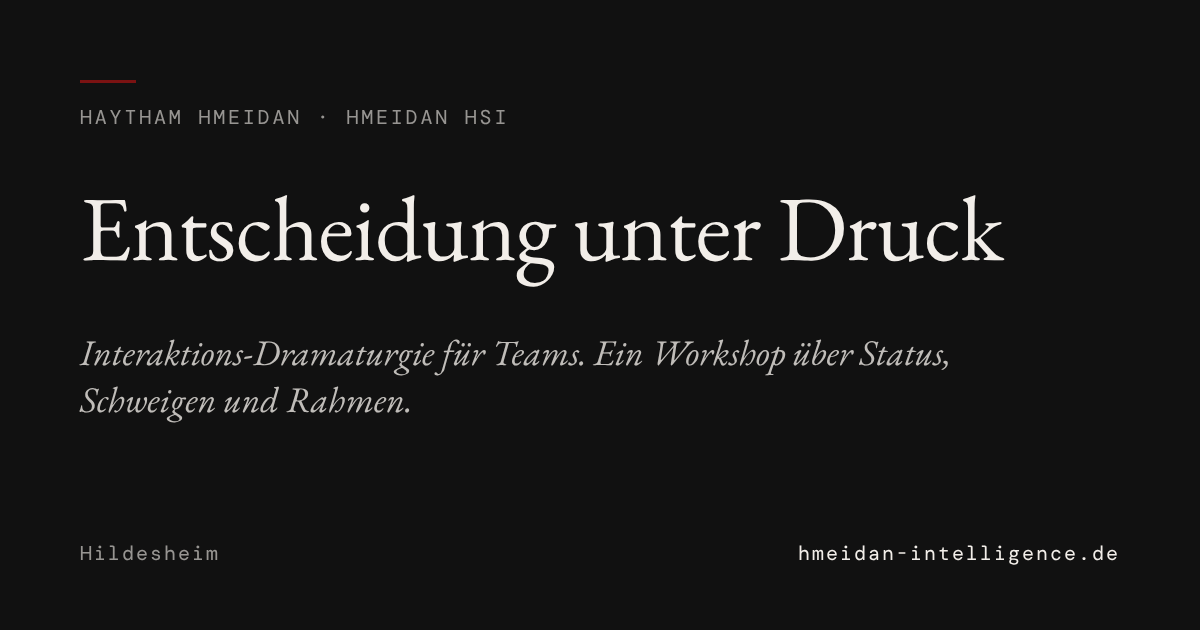
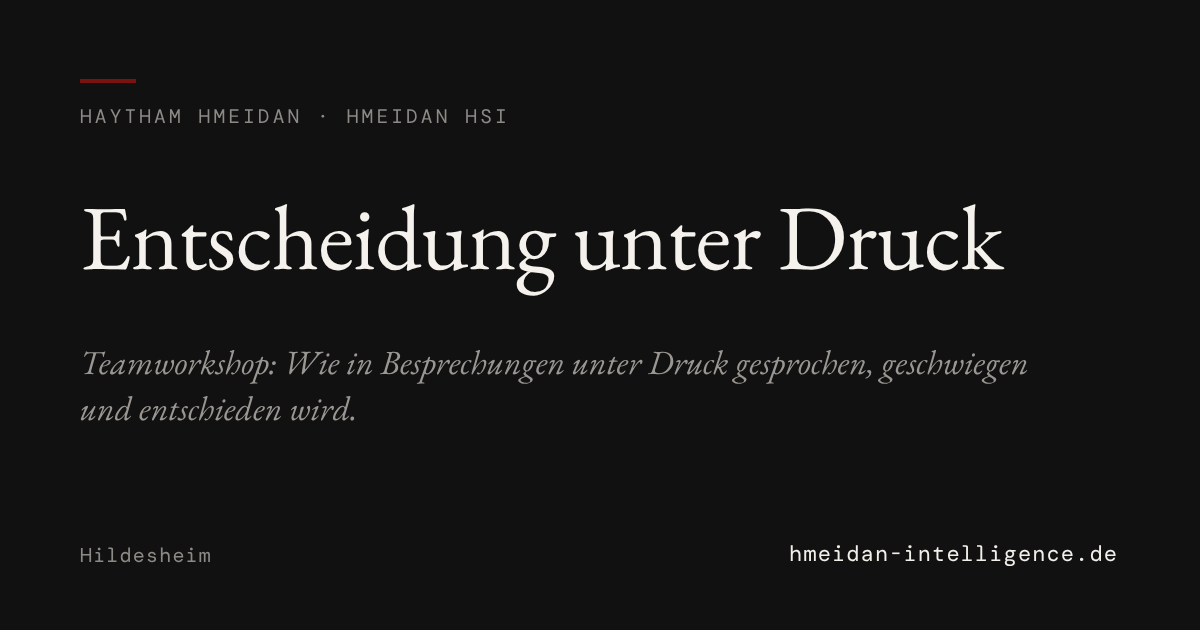
Website: Vorschaubild, 30 Minuten, e. V. beim Vereinsnamen
- og-image.png neu (Teamworkshop-Zeile statt Interaktions-Dramaturgie), og:image mit ?v=2 gegen Cache
- og:image:alt angepasst
- Erstkontakt: "30 Minuten" statt "20–30 Minuten"
- Citizen Diplomats for Syria e. V.

Claude-Session: https://claude.ai/code/session_01LMaWUzrgQ3KcMeE2QfdhcS

diff --git a/index.html b/index.html
@@ -11,10 +11,10 @@
   <meta property="og:title" content="Hmeidan Strategic Intelligence — Trainer für Teams unter Druck">
   <meta property="og:description" content="Teamworkshop „Entscheidung unter Druck“ mit Haytham Hmeidan, ehemaliger Diplomat und Theaterpädagoge, Hildesheim.">
   <meta property="og:url" content="https://hmeidan-intelligence.de/">
-  <meta property="og:image" content="https://hmeidan-intelligence.de/og-image.png">
+  <meta property="og:image" content="https://hmeidan-intelligence.de/og-image.png?v=2">
   <meta property="og:image:width" content="1200">
   <meta property="og:image:height" content="630">
-  <meta property="og:image:alt" content="Entscheidung unter Druck: Interaktions-Dramaturgie für Teams. Haytham Hmeidan, Hmeidan HSI, Hildesheim">
+  <meta property="og:image:alt" content="Entscheidung unter Druck: Teamworkshop mit Haytham Hmeidan, Hmeidan HSI, Hildesheim">
   <meta name="twitter:card" content="summary_large_image">
   <script type="application/ld+json">
   {"@context":"https://schema.org","@type":"Person","name":"Haytham Hmeidan","url":"https://hmeidan-intelligence.de/","jobTitle":"Theaterpädagoge, Trainer","worksFor":{"@type":"Organization","name":"Hmeidan Strategic Intelligence","url":"https://hmeidan-intelligence.de/"},"address":{"@type":"PostalAddress","addressLocality":"Hildesheim","addressCountry":"DE"},"knowsLanguage":["de","en","ar"],"sameAs":["https://www.linkedin.com/in/haytham-hmeidan-a0899125/","https://diplomatspowerhub.substack.com"]}
@@ -528,7 +528,7 @@
       </div>
       <div class="bio-text">
         <p class="mono reveal" style="color:var(--sovereign); margin-bottom:16px;">Ehemaliger Diplomat (M.A. Diplomatie, Malta) · Theaterpädagoge · Hildesheim</p>
-        <p class="reveal"><strong>Damals.</strong> Zwölf Jahre war ich Diplomat, in Damaskus, Tokio und Havanna. Im März 2013 weigerte ich mich öffentlich, das Regime weiter zu vertreten, und verließ aus politisch-moralischer Verantwortung meinen Posten in Havanna. Ich sagte mich vom Außenministerium los, half anderen Diplomaten beim Seitenwechsel und gründete Citizen Diplomats for Syria, das Entscheidungsträger beriet und Geflüchtete unterstützte (bis 2024).</p>
+        <p class="reveal"><strong>Damals.</strong> Zwölf Jahre war ich Diplomat, in Damaskus, Tokio und Havanna. Im März 2013 weigerte ich mich öffentlich, das Regime weiter zu vertreten, und verließ aus politisch-moralischer Verantwortung meinen Posten in Havanna. Ich sagte mich vom Außenministerium los, half anderen Diplomaten beim Seitenwechsel und gründete Citizen Diplomats for Syria e.&nbsp;V., das Entscheidungsträger beriet und Geflüchtete unterstützte (bis 2024).</p>
         <div class="bio-refusal reveal"><p style="font-family:var(--display); font-style:italic; font-size:1.18rem; line-height:1.55; color:var(--ink); margin:0; max-width:none;">„Das Laufband war kein Ende. Es war der Beginn der einzigen Architektur, die trägt — weil sie von innen gebaut ist.“</p></div>
         <p class="reveal"><strong>Der Weg.</strong> In Deutschland ließ ich mich an der HMTM Hannover und der Hessischen Theaterakademie zum Schauspieler und Theaterpädagogen ausbilden und arbeitete fünf Jahre auf deutschen Bühnen und in der angewandten Theaterpädagogik. In Verhandlungen entscheidet oft nicht das bessere Argument, sondern wer den Rahmen hält. In der Diplomatie habe ich das beobachtet, auf der Bühne habe ich gelernt, wie man es mit Haltung, Stimme und Pausen verändert. Wer seine Wirkung nur aus einem Titel bezieht, verliert sie unter Druck.</p>
         <p class="reveal"><strong>Was ich Ihrem Team biete.</strong> Wir arbeiten an Situationen aus Ihrem eigenen Alltag: wer zu früh spricht, wer die Stille füllt, wessen Vorschlag untergeht. Im Teamworkshop „Entscheidung unter Druck“ üben wir, diese Momente zu erkennen und anders zu steuern. Ziel ist, dass Ihr Team in der nächsten schwierigen Besprechung sieht, was im Raum geschieht, und eine andere Option hat. Vier Wochen später folgt ein Nachgespräch.</p>
@@ -556,7 +556,7 @@
     <div class="kontakt-inner">
       <span class="sec-label mono">05 / Erstkontakt</span>
       <h2 class="kontakt-h2 reveal">Die Verhandlung beginnt, <em>bevor das erste Wort fällt.</em></h2>
-      <p class="kontakt-lede reveal">20–30 Minuten. Vertraulich. Ohne Verkaufsskript. Sie schildern kurz Ihre Situation oder Ihr Team-Anliegen — ich gebe Ihnen eine klare Rückmeldung, welches Format passt und wie wir vorgehen können. Passt das Format, erhalten Sie im Anschluss innerhalb von 3 Werktagen ein auf Ihre Lage abgestimmtes Konzept inklusive transparenter Investitionsübersicht. Passt das Format nicht zur Lage Ihres Teams, sage ich Ihnen das offen: Dann endet das Gespräch mit einer ehrlichen Einschätzung und ohne Angebot.</p>
+      <p class="kontakt-lede reveal">30 Minuten. Vertraulich. Ohne Verkaufsskript. Sie schildern kurz Ihre Situation oder Ihr Team-Anliegen — ich gebe Ihnen eine klare Rückmeldung, welches Format passt und wie wir vorgehen können. Passt das Format, erhalten Sie im Anschluss innerhalb von 3 Werktagen ein auf Ihre Lage abgestimmtes Konzept inklusive transparenter Investitionsübersicht. Passt das Format nicht zur Lage Ihres Teams, sage ich Ihnen das offen: Dann endet das Gespräch mit einer ehrlichen Einschätzung und ohne Angebot.</p>
       <div class="kontakt-btns reveal">
         <a class="btn" href="https://calendar.app.google/aWSrDMMB1ZmnBEBu8" target="_blank" rel="noopener">Termin buchen</a>
         <a class="btn btn-ghost" href="mailto:h.hmeidan@hmeidan-intelligence.de?subject=Anfrage%20Erstgespr%C3%A4ch%20HSI&amp;body=Guten%20Tag%20Herr%20Hmeidan%2C%0A%0Akurz%20zu%20unserem%20Anliegen%20(Team-Workshop)%3A%0A%0AMit%20freundlichen%20Gr%C3%BC%C3%9Fen">Per E-Mail anfragen</a>
